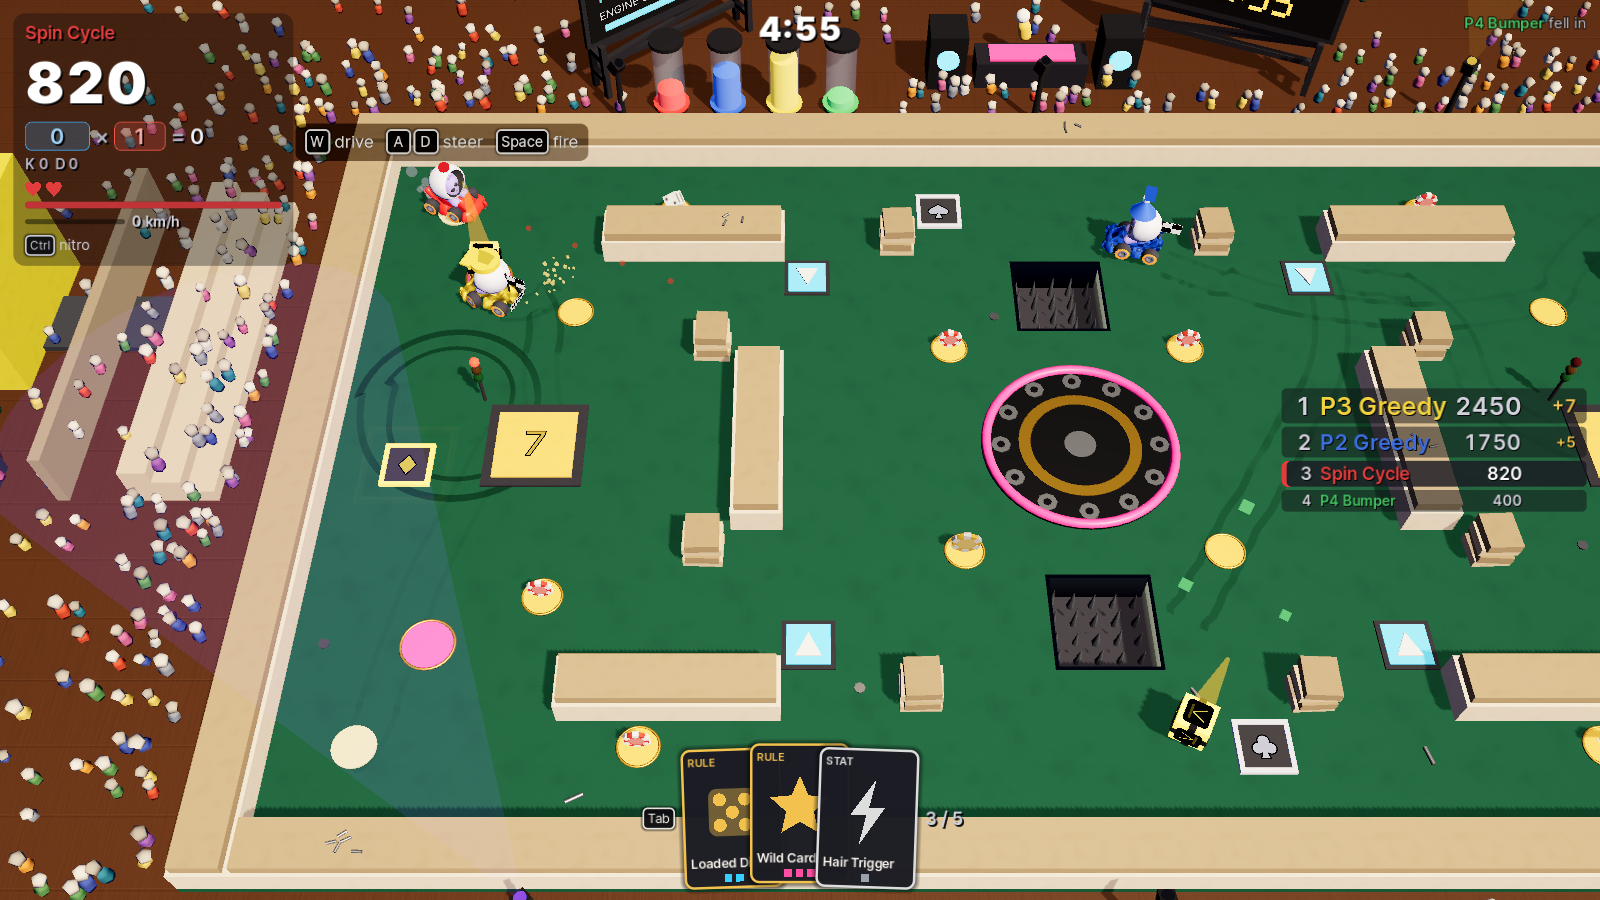
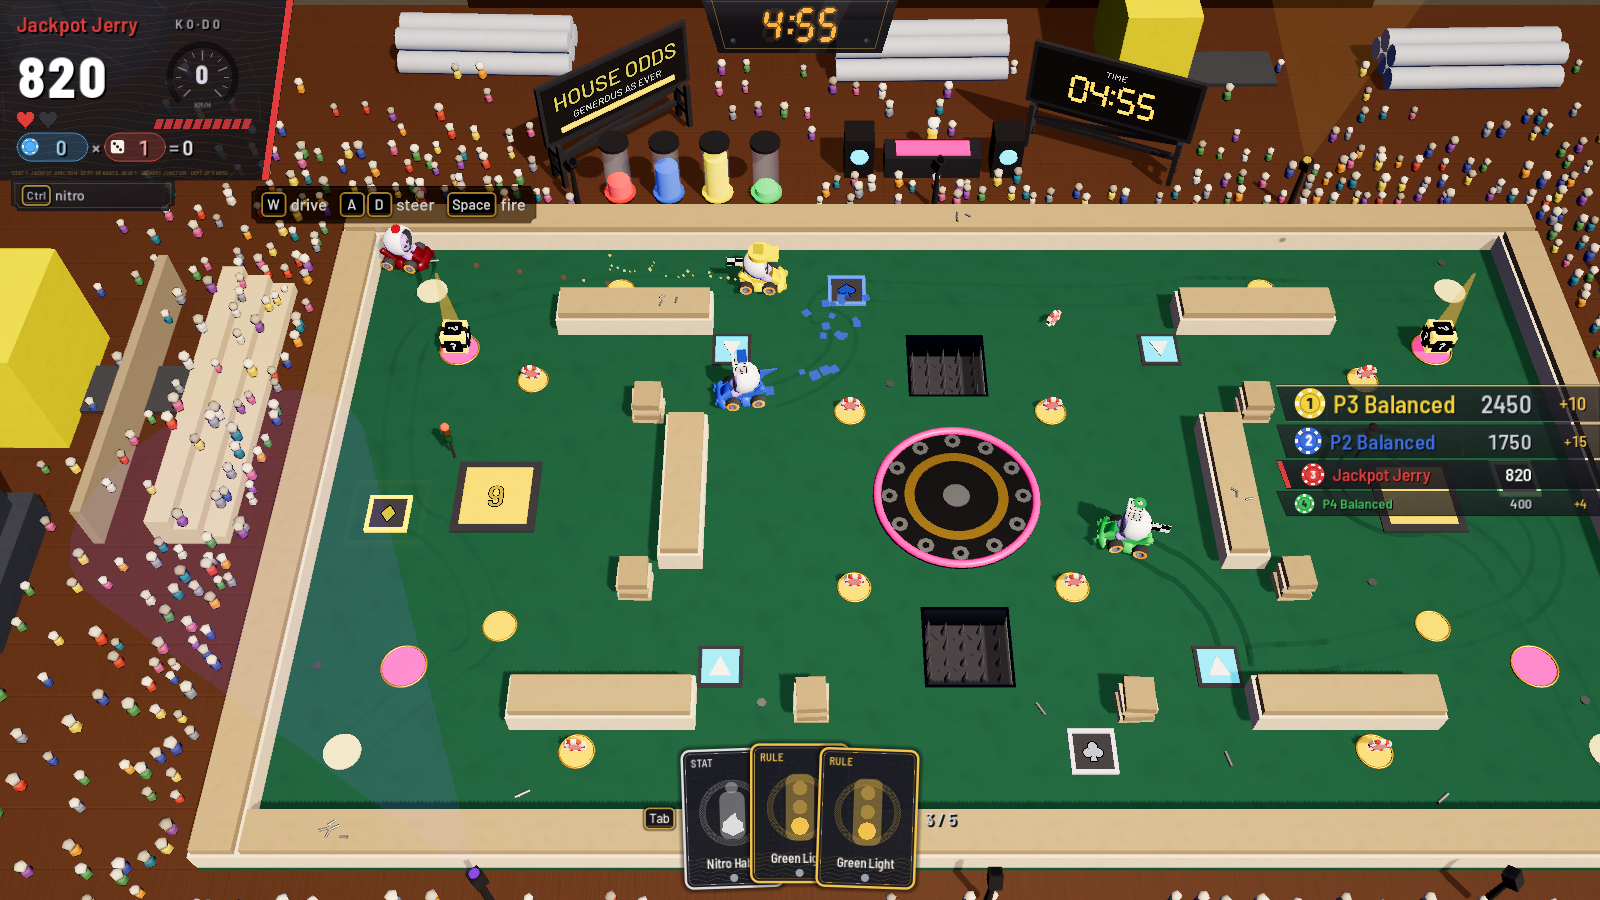
Retake the README's screenshots in the House Print
All four shots showed the HUD and the touch controls from before the
redesign. Retaken the same way as before, on scratch settings: Lucky
Crossing and The Vault as they were, Crossfire XL a moment later for a
cursed card in the hand, and the phone at 2400x1080 scaled to 1600x720.
The descriptions say what the HUD is now: the dashboard in the corner,
the standings as strips off the right edge, the clock's board and the
touch controls in the player's color.

diff --git a/README.md b/README.md
@@ -14,19 +14,19 @@ has changed in each release.
 
 Three arenas, three rooms to play them in, and an XL version of each with room to spare.
 
-![A green felt arena on a workbench, lit by a lamp over it, with karts driving between low blocks and a machined steel plate set into the felt in the middle of it. Bundles of rod stock and stacks of planks lie about the bench around the table, and a crowd of onlookers rings the arena, packed at the rail and thinning outward. Glass tanks filled to different levels, a DJ booth, two lit hoardings and a board keeping the match clock stand at the far edge; the player's score sits on a dark card in the top left, the standings run down the right and a hand of joker cards along the bottom of the screen](docs/lucky-crossing.png)
+![A green felt arena on a workbench, lit by a lamp over it, with karts driving between low blocks and a machined steel plate set into the felt in the middle of it. Bundles of rod stock and stacks of planks lie about the bench around the table, and a crowd of onlookers rings the arena, packed at the rail and thinning outward. Glass tanks filled to different levels, a DJ booth, two lit hoardings and a board keeping the match clock stand at the far edge, and the clock hangs again on an amber board at the top of the screen. The player's corner in the top left is a dark dashboard run off the screen edge, with their score, a speed dial and their pot of chips times dice; the standings are strips off the right edge, and a hand of joker cards in gold frames is along the bottom](docs/lucky-crossing.png)
 
 *Lucky Crossing, on The Workbench.*
 
-![A dark card room with a green baize arena on the table in the middle of it, the only lit thing in the room. A roulette wheel of red and black pockets is let into the baize at the center, with stacks of red chips and fanned playing cards round the walls and dice on the cloth beyond them. Neon signs hang over a crowd reduced to shapes with light along their edges, and the match clock glows orange above the far edge](docs/the-vault.png)
+![A dark card room with a green baize arena on the table in the middle of it, the only lit thing in the room. A roulette wheel of red and black pockets is let into the baize at the center, with stacks of red chips and fanned playing cards round the walls and dice on the cloth beyond them. Neon signs hang over a crowd reduced to shapes with light along their edges, and the match clock glows orange above the far edge. The player's dashboard sits in the top left, the kill feed fades out in the top right over the standings, and the player's hand of jokers is along the bottom](docs/the-vault.png)
 
 *The Vault, After Hours.*
 
-![A concrete yard in late afternoon light seen from high above, with a far bigger arena marked out on it than the usual map: two long stepped walls of pale blocks curve toward each other across it, a pit edged in black and yellow hazard stripes sits in each of their bends, and a disc bordered in the same stripes lies in the open middle, with karts small against all that floor. The crowd fills stepped tribunes on every side, with a truck, stacked drums and a forklift beyond them, and lit hoardings and the match clock along the far edge](docs/crossfire-xl.png)
+![A concrete yard in late afternoon light seen from high above, with a far bigger arena marked out on it than the usual map: two long stepped walls of pale blocks curve toward each other across it, a pit edged in black and yellow hazard stripes sits in each of their bends, and a disc bordered in the same stripes lies in the open middle, with karts small against all that floor. The crowd fills stepped tribunes on every side, with a truck, stacked drums and a forklift beyond them, and lit hoardings and the match clock along the far edge. The player's hand along the bottom holds a red cursed card beside two others](docs/crossfire-xl.png)
 
 *Crossfire XL, in The Yard: the same room around a bigger arena.*
 
-![A wide phone screen showing Crossfire in The Yard from above, the whole arena in view, with the touch controls drawn over it: a steering wheel in the lower left for the left thumb, and on the right a round Fire button beside a tall slider cut into Nitro, Gas, Reverse and Drift. The menu button sits in the top right corner with the standings under it, the player's score card is in the top left, and their hand of joker cards is along the bottom edge](docs/mobile.png)
+![A wide phone screen showing Crossfire in The Yard from above, the whole arena in view, with the touch controls drawn over it in the player's own red: a steering wheel in the lower left for the left thumb, and on the right a round Fire button beside a tall slider cut into Nitro, Gas, Reverse and Drift. The menu button sits in the top right corner over the standings strips, the player's dashboard is in the top left, and their hand of joker cards is along the bottom edge](docs/mobile.png)
 
 *On a phone: the stick under the left thumb, Fire and the slider under the right.*
 
